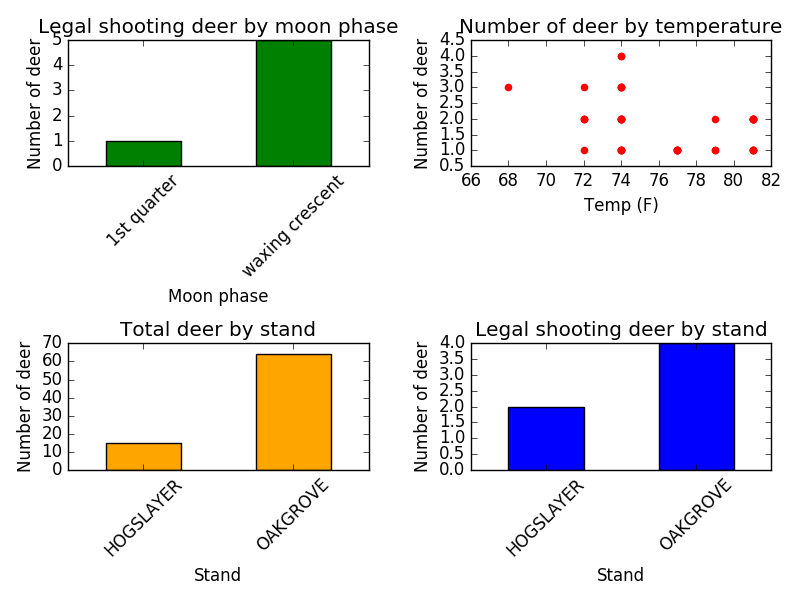
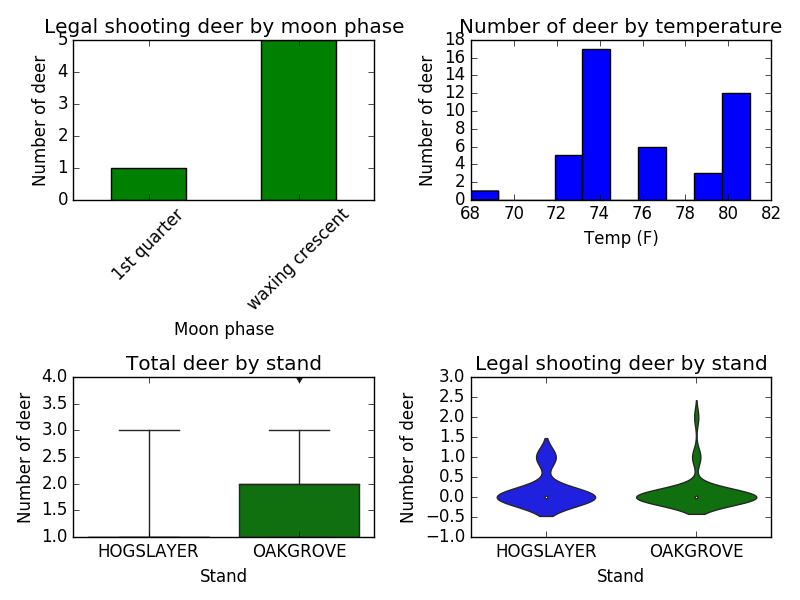
general updates

diff --git a/plot_data.py b/plot_data.py
@@ -3,6 +3,8 @@
 import matplotlib.pyplot as plt
 from matplotlib.ticker import ScalarFormatter, FormatStrFormatter
 import pandas as pd
+import seaborn as sns
+
 
 def main():
 	''' main function for testing'''
@@ -27,7 +29,8 @@ def show_all(df):
 
 	# Temperature
 	plt.subplot(222)
-	plt.scatter(df['temp'], df['deer'], color='red')
+	# plt.scatter(df['temp'], df['deer'], color='red')
+	plt.hist(df['temp'], bins=10)
 	plt.xlabel('Temp (F)')
 	plt.ylabel('Number of deer')
 	plt.ticklabel_format(useOffset=False)
@@ -37,8 +40,10 @@ def show_all(df):
 
 	# Total Deer by Stand
 	plt.subplot(223)
-	location = df.groupby('stand').deer.sum()
-	location.plot(kind='bar', rot=45, color='orange')
+	#location = df.groupby('stand').deer.sum()
+	#location.plot(kind='bar', rot=45, color='orange')
+	
+	sns.boxplot(x='stand', y='deer', data=df)
 	plt.xlabel('Stand')
 	plt.ylabel('Number of deer')
 	plt.title('Total deer by stand')
@@ -46,14 +51,22 @@ def show_all(df):
 
 	# Day Deer by Stand
 	plt.subplot(224)
-	loc = df.groupby('stand').day_deer.sum()
-	loc.plot(kind='bar', rot=45)
+	# loc = df.groupby('stand').day_deer.sum()
+	# loc.plot(kind='bar', rot=45)
+
+	sns.violinplot(x='stand', y='day_deer', data=df)
 	plt.xlabel('Stand')
 	plt.ylabel('Number of deer')
 	plt.title('Legal shooting deer by stand')
 	plt.tight_layout()
 	plt.savefig('Bampfield Stats.png')
 
+	plt.show()
+
+	# Heatmap
+	num_df = df._get_numeric_data()
+	sns.heatmap(num_df, linewidth=0.5, cmap='Blues_r')
+	plt.title('Covariance plot')
 	plt.show()
 
 

diff --git a/imshow.py b/imshow.py
@@ -1,24 +1,40 @@
 #!/usr/bin/python3
 
 import matplotlib.pyplot as plt
+import matplotlib.image as mpimg
+import numpy as np
+import cv2
 
 
 def main():
 	''' main function for testing'''
 
-	picture = plt.imread('test.JPG')
+	picture = 'test_image.JPG'
 	plt_imshow(picture)
 
 
 def plt_imshow(img):
 	''' Uses matplotlib.pyplot to show a grayscale image instead of PIL'''
 
-	print(img.shape)
+	image = cv2.imread(img)	
+	
+	cv2.imshow('image', image)
+	cv2.waitKey(0)
+	test = input('What is your deal? ')
+	# k = cv2.waitKey(10)
 
-	plt.set_cmap('gray')
-	plt.imshow(img, cmap='gray')
-	#plt.axis('off')
-	plt.show()
+	cv2.destroyAllWindows()
+
+	# print(img.shape)
+
+'''	with mpimg.imread(image) as img:
+		plt.set_cmap('hot')
+		plt.imshow(img)
+		# plt.axis('off')
+		plt.show()
+		# ans = input('What? ')'''
+
+	#plt.close()
 
 
 if __name__ == '__main__':

diff --git a/image_data.py b/image_data.py
@@ -9,15 +9,19 @@ def main():
 	''' main function for testing purposes'''
 
 	test_file = 'I__00159.JPG'
-	img = Image.open(test_file)
+	
+	with Image.open(test_file) as img:
+		Resize = img.resize((960, 540))
+		Resize.show()
 
-	Resize = img.resize((960, 540))
-	# Resize.show()
+		answer = input('What do you think? ')
 
-	columns = ['obs_time', 'temp', 'moon', 'stand', 'deer', 'bucks', 'does', 'hogs']
+	# Resize.close()
+
+	'''columns = ['obs_time', 'temp', 'moon', 'stand', 'deer', 'bucks', 'does', 'hogs']
 	df = pd.DataFrame(columns=columns, index=range(0,1))	
 
-	getexif(img, df)
+	getexif(img, df)'''
 
 
 def getexif(image, d_row):

diff --git a/heatmap.py b/heatmap.py
@@ -1,0 +1,12 @@
+#!/usr/bin/python3
+
+import pandas as pd
+import seaborn as sns
+
+
+def main(df):
+	sns.heatmap(df)
+
+
+if __name__ == '__main__':
+	main()
